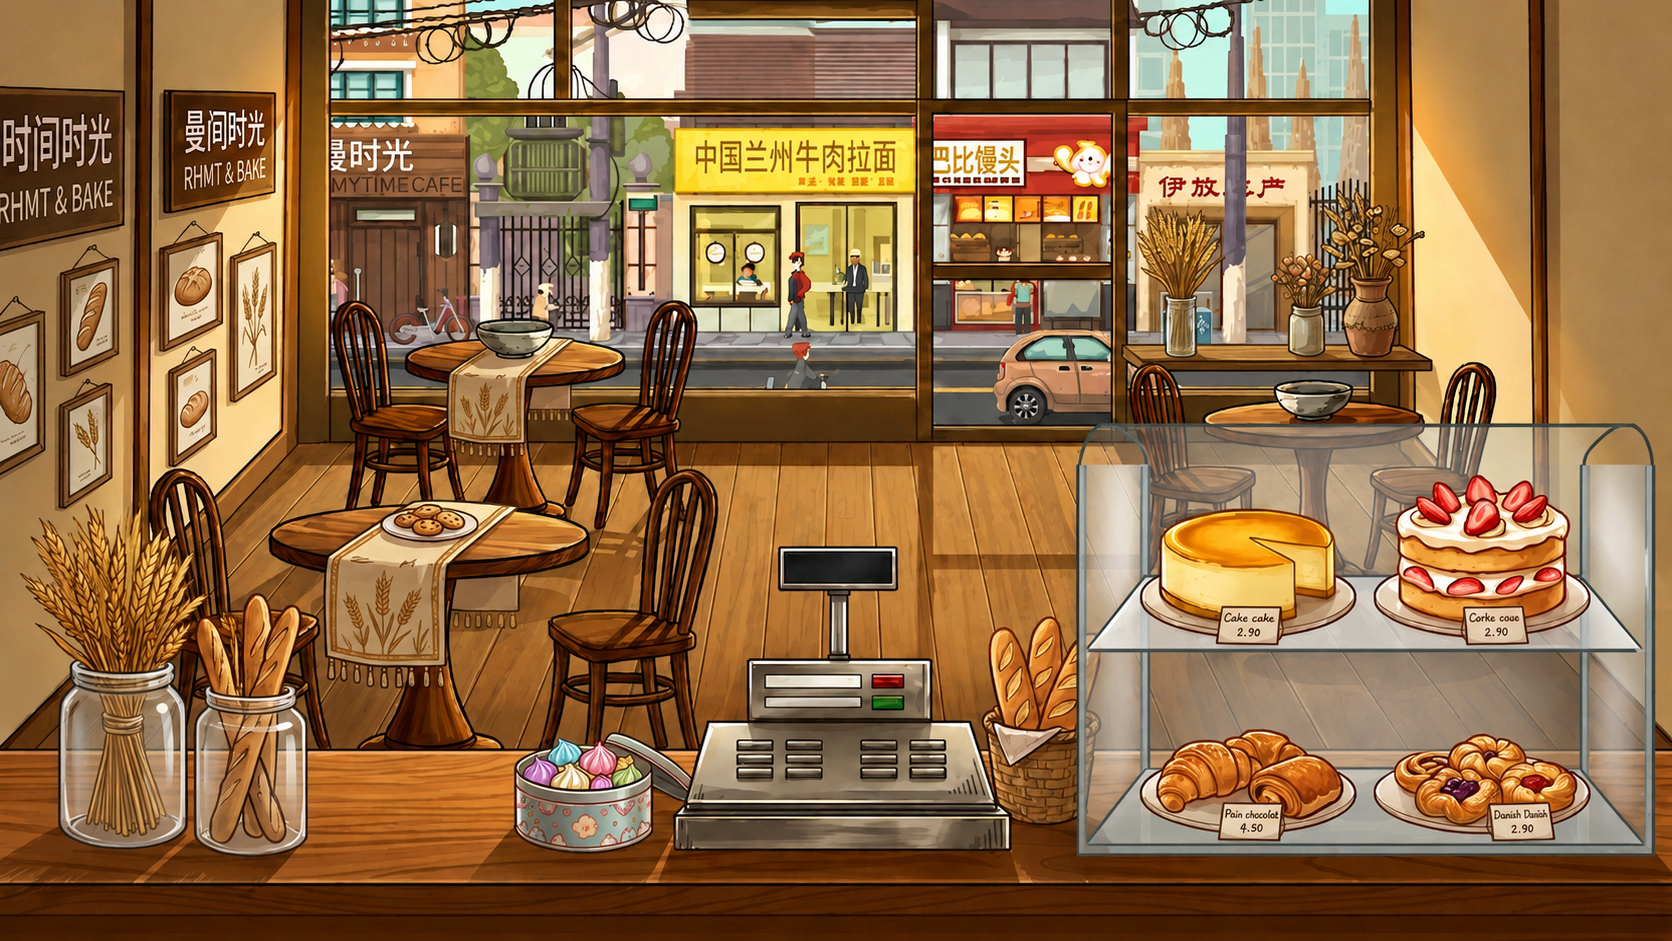
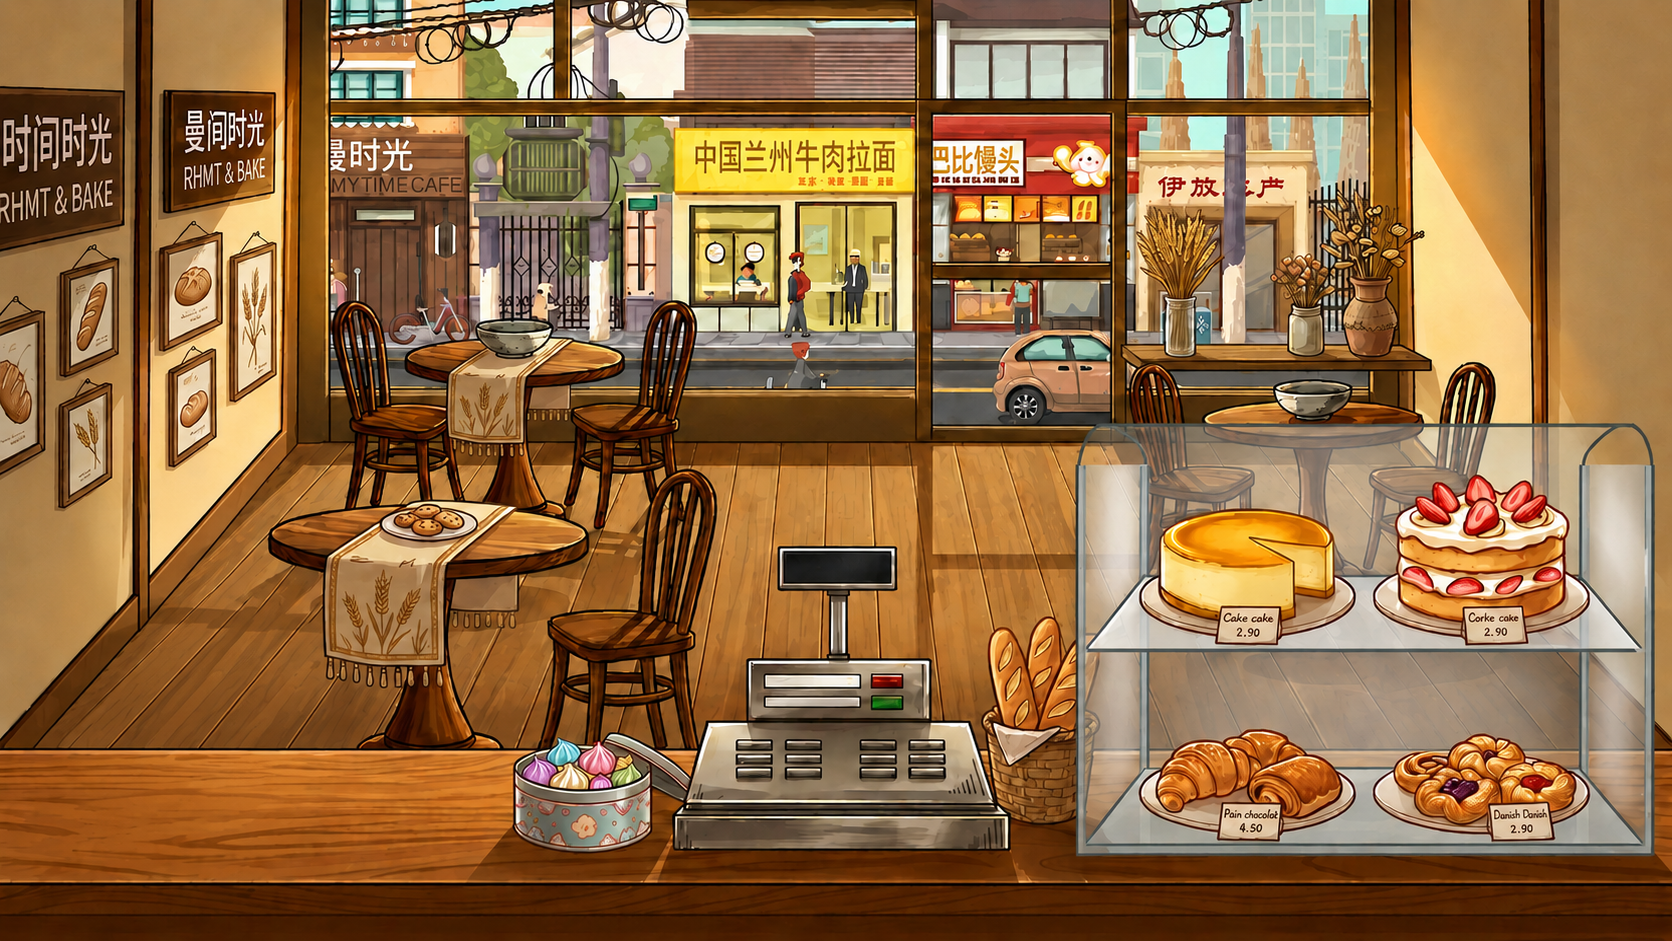
ubah bg kasir, tambah confirm cake di kasir

diff --git a/UI/CashierRenderer.py b/UI/CashierRenderer.py
@@ -14,6 +14,7 @@ class CashierRenderContext:
         "emoji_scale",
         "background",          # pygame.Surface | None
         "heart_img",           # pygame.Surface | None
+        "cake",
     )
 
     def __init__(self) -> None:
@@ -25,6 +26,7 @@ class CashierRenderContext:
         self.emoji_scale = 1.0
         self.background = None
         self.heart_img  = None
+        self.cake       = None
 
 
 class CashierRenderer:
@@ -33,6 +35,7 @@ class CashierRenderer:
         self._font: pygame.font.Font | None          = None
         self._font_affinity: pygame.font.Font | None = None
         self._text_cache: dict[str, pygame.Surface]  = {}
+        self._submit_btn_rect: pygame.Rect | None    = None
 
 
     def init_fonts(self) -> None:
@@ -68,11 +71,29 @@ class CashierRenderer:
         if ctx.state == CashierState.ORDER_ACTIVE:
             minigame.render(screen, ctx.npc_x)
 
+            if ctx.cake and ctx.cake.is_complete():
+                self._render_cake_preview(screen, ctx.cake)
+
         emoji_popup.render(screen, ctx.emoji_scale)
 
         if ctx.state == CashierState.REACTING and emoji_popup.is_done():
             self._render_hint(screen, "Click to continue...",
                               Constant.NPC_Y + Constant.NPC_HEIGHT + Constant.HINT_CLICK_OFFSET_Y)
+
+    def _render_cake_preview(self, screen: pygame.Surface, cake) -> None:
+        cake_center = (Constant.SCREEN_WIDTH - 1000, Constant.SCREEN_HEIGHT - 150)
+        cake.render_cake(screen, center=cake_center)
+
+        btn_rect = pygame.Rect(0, 0, 200, 50)
+        btn_rect.centerx = cake_center[0]
+        btn_rect.top = cake_center[1] + 100
+
+        pygame.draw.rect(screen, (80, 180, 80), btn_rect, border_radius=10)
+        if self._font:
+            label = self._font.render("Submit Cake!", True, (255, 255, 255))
+            screen.blit(label, label.get_rect(center=btn_rect.center))
+
+        self._submit_btn_rect = btn_rect
 
     # Background 
 

diff --git a/Room/Cashier.py b/Room/Cashier.py
@@ -484,6 +484,7 @@ class Cashier(Room):
         ctx.emoji_scale = self._emoji_scale
         ctx.background  = self._current_bg
         ctx.heart_img   = self._heart_img
+        ctx.cake        = self.cake
 
     # Events
 
@@ -505,10 +506,14 @@ class Cashier(Room):
             return
 
         if self._state == CashierState.ORDER_ACTIVE:
-            if (event.type == pygame.MOUSEBUTTONDOWN
-                    and event.button == 1
-                    and self._minigame.handle_click(event.pos)):
-                pass
+            if event.type == pygame.MOUSEBUTTONDOWN and event.button == 1:
+                if self._minigame.handle_click(event.pos):
+                    pass
+                elif (self.cake and self.cake.is_complete()
+                    and hasattr(self._renderer, '_submit_btn_rect')
+                    and self._renderer._submit_btn_rect
+                    and self._renderer._submit_btn_rect.collidepoint(event.pos)):
+                    self.check_cake()
             return
 
         if (self._state == CashierState.REACTING